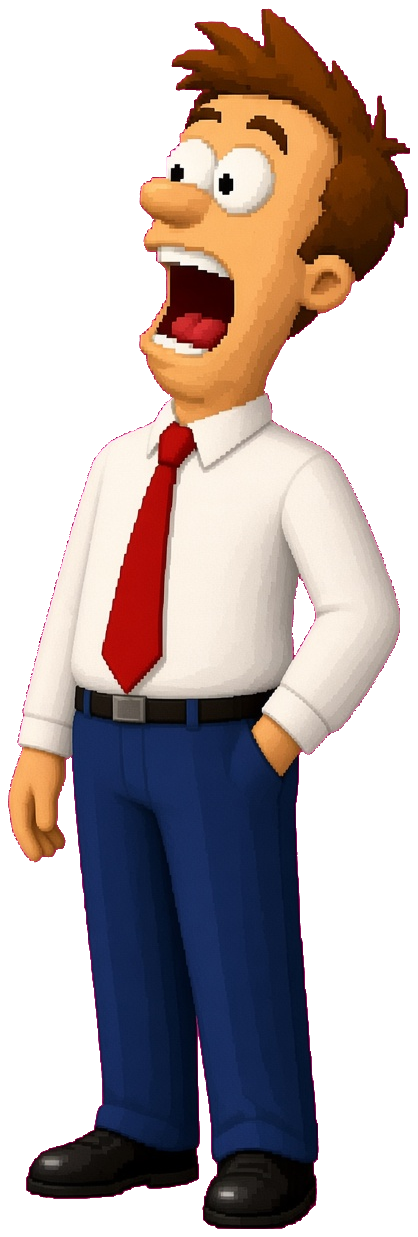
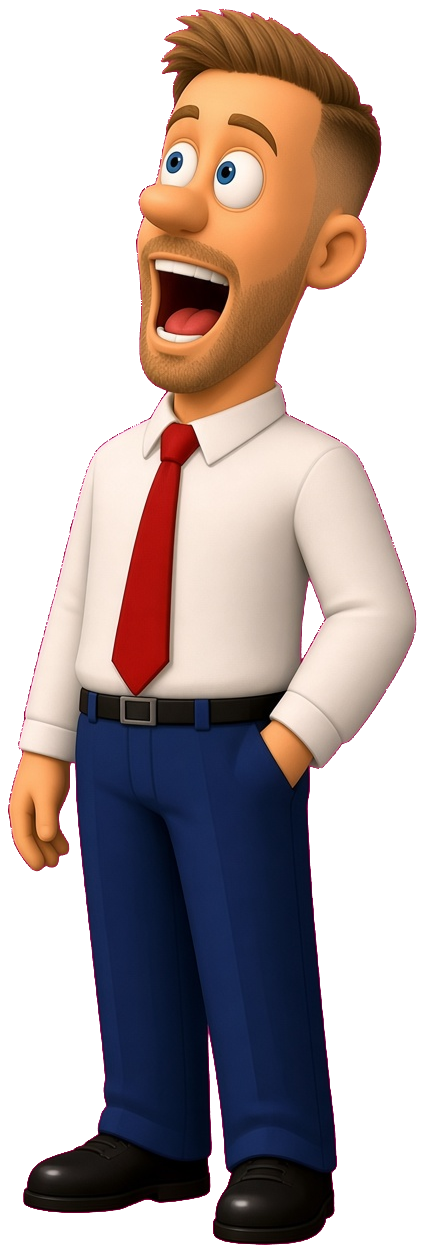
Give Hot Dog Catcher Brock's face and ease the catch window
Clipart man now uses a cartoon likeness of @brockpierson. Catch radius sits between the first generous version and the tighter second pass.

diff --git a/public/hotdog_game/game.js b/public/hotdog_game/game.js
@@ -6,7 +6,7 @@
 
   const CATCH_WIN = 10;
   const DROP_LOSE = 3;
-  const GRAVITY = 0.17;
+  const GRAVITY = 0.16;
 
   const PATHS = {
     bg: "assets/bg.jpg",
@@ -152,9 +152,9 @@
     const { w, h } = manSize();
     // Tight zone centered on the open mouth of these sprites.
     return {
-      x: state.playerX + w * (0.355 + manIndex() * 0.028),
-      y: H - 18 - h + h * (0.255 + manIndex() * 0.01),
-      r: 16,
+      x: state.playerX + w * (0.372 + manIndex() * 0.026),
+      y: H - 18 - h + h * (0.232 + manIndex() * 0.012),
+      r: 26,
     };
   }
 
@@ -221,8 +221,8 @@
 
   function shoot(now) {
     const m = muzzle();
-    const landX = 240 + Math.random() * 460;
-    const flight = 70 + Math.random() * 34;
+    const landX = 260 + Math.random() * 430;
+    const flight = 84 + Math.random() * 28;
     const gy = feetY() - 14;
     state.dogs.push({
       x: m.x,
@@ -244,8 +244,8 @@
         life: 1,
       });
     }
-    const gap = Math.max(820, 1850 - state.caught * 95);
-    state.nextShot = now + gap + Math.random() * 260;
+    const gap = Math.max(860, 1980 - state.caught * 88);
+    state.nextShot = now + gap + Math.random() * 290;
   }
 
   function catchDog(d, now) {
@@ -331,7 +331,7 @@
       if (state.mode === "play") {
         const dx = d.x - mouth.x;
         const dy = d.y - mouth.y;
-        if (dx * dx + dy * dy < mouth.r * mouth.r) {
+        if (dx * dx + dy * dy < (mouth.r + 4) * (mouth.r + 6)) {
           state.dogs.splice(i, 1);
           catchDog(d, now);
           continue;
